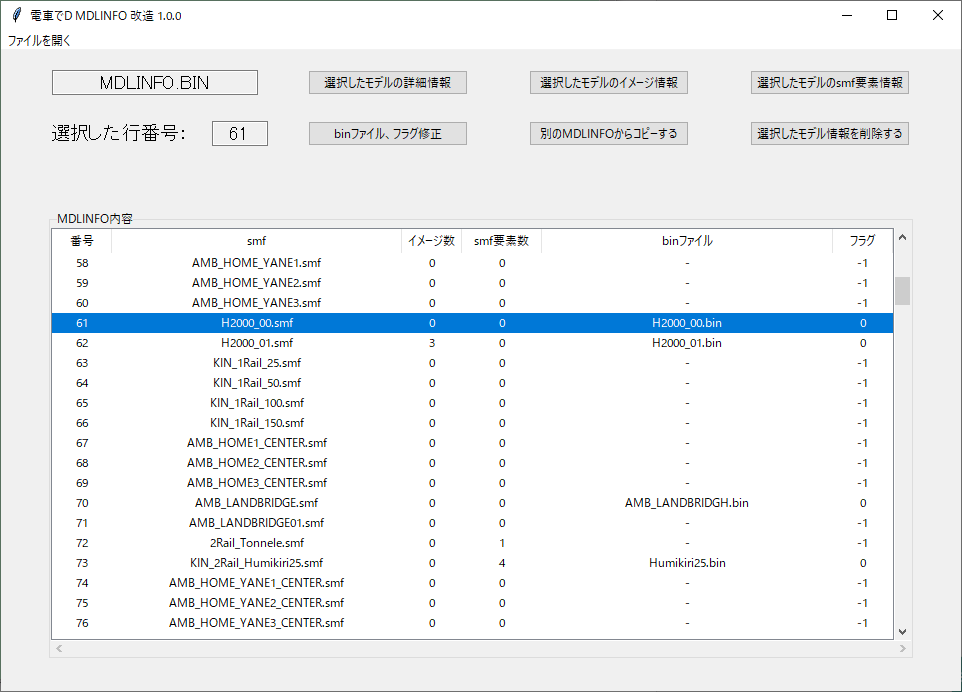
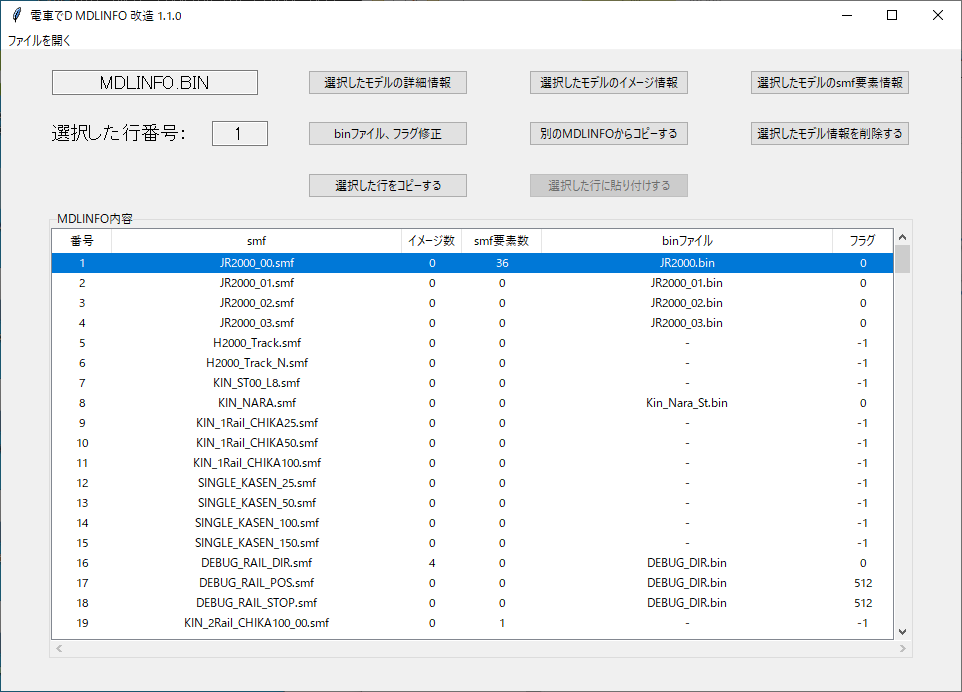
コピー機能追加、削除の不具合修正

diff --git a/importPy/tkinterClass.py b/importPy/tkinterClass.py
@@ -633,6 +633,7 @@ class BinFileOrFlagEditDialog(sd.Dialog):
     def __init__(self, master, title, num, decryptFile):
         self.smfNum = num
         self.decryptFile = decryptFile
+        self.smfName = decryptFile.allInfoList[self.smfNum]["smfName"]
         self.binFile = decryptFile.allInfoList[self.smfNum]["binInfo"][0]
         self.flag = decryptFile.allInfoList[self.smfNum]["binInfo"][1]
         self.dirtyFlag = False
@@ -640,19 +641,26 @@ class BinFileOrFlagEditDialog(sd.Dialog):
     def body(self, master):
         self.fontSize = 12
         self.entryWidth = 20
+        self.smfNameLb = ttk.Label(master, text="smf名")
+        self.smfNameLb.grid(row=0, column=0, sticky=W+E)
+        self.v_smfName = StringVar()
+        self.v_smfName.set(self.smfName)
+        self.smfNameEt = ttk.Entry(master, font=("", self.fontSize), textvariable=self.v_smfName, width=self.entryWidth)
+        self.smfNameEt.grid(row=0, column=1, sticky=W+E)
+        
         self.binFileLb = ttk.Label(master, text="binファイル")
-        self.binFileLb.grid(row=0, column=0, sticky=W+E)
+        self.binFileLb.grid(row=1, column=0, sticky=W+E)
         self.v_binFile = StringVar()
         self.v_binFile.set(self.binFile)
         self.binFileEt = ttk.Entry(master, font=("", self.fontSize), textvariable=self.v_binFile, width=self.entryWidth)
-        self.binFileEt.grid(row=0, column=1, sticky=W+E)
+        self.binFileEt.grid(row=1, column=1, sticky=W+E)
 
         self.flagLb = ttk.Label(master, text="フラグ")
-        self.flagLb.grid(row=1, column=0, sticky=W+E)
+        self.flagLb.grid(row=2, column=0, sticky=W+E)
         self.v_flag = IntVar()
         self.v_flag.set(self.flag)
         self.flagEt = ttk.Entry(master, font=("", self.fontSize), textvariable=self.v_flag, width=self.entryWidth)
-        self.flagEt.grid(row=1, column=1, sticky=W+E)
+        self.flagEt.grid(row=2, column=1, sticky=W+E)
 
     def validate(self):
         warnMsg = "binファイル、フラグ情報を修正しますか？"
@@ -660,6 +668,10 @@ class BinFileOrFlagEditDialog(sd.Dialog):
 
         if result:
             varList = []
+            if not self.v_smfName.get():
+                mb.showerror(title="エラー", message="smf名が空文字です")
+                return False
+            varList.append(self.v_smfName.get())
             varList.append(self.v_binFile.get())
             varList.append(self.v_flag.get())
 
@@ -716,3 +728,41 @@ class CopyMdlDialog(sd.Dialog):
     def apply(self):
         self.dirtyFlag = True
         
+class PasteDialog(sd.Dialog):
+    def __init__(self, master, title, decryptFile, num, copyInfoByteArr):
+        self.decryptFile = decryptFile
+        self.num = num
+        self.copyInfoByteArr = copyInfoByteArr
+        self.reloadFlag = False
+        super(PasteDialog, self).__init__(parent=master, title=title)
+    def body(self, master):
+        self.resizable(False, False)
+        self.posLb = ttk.Label(master, text="挿入する位置を選んでください", font=("", 14))
+        self.posLb.pack(padx=10, pady=10)
+    def buttonbox(self):
+        box = Frame(self, padx=5, pady=5)
+        self.frontBtn = Button(box, text="前", font=("", 12), width=10, command=self.frontInsert)
+        self.frontBtn.grid(row=0, column=0, padx=5)
+        self.backBtn = Button(box, text="後", font=("", 12), width=10, command=self.backInsert)
+        self.backBtn.grid(row=0, column=1, padx=5)
+        self.cancelBtn = Button(box, text="Cancel", font=("", 12), width=10, command=self.cancel)
+        self.cancelBtn.grid(row=0, column=2, padx=5)
+        box.pack()
+    def frontInsert(self):
+        if not self.decryptFile.copySaveFile(self.num - 1, self.copyInfoByteArr):
+            self.decryptFile.printError()
+            errorMsg = "保存に失敗しました。\nファイルが他のプログラムによって開かれている\nまたは権限問題の可能性があります"
+            mb.showerror(title="保存エラー", message=errorMsg)
+            return
+        self.ok()
+        mb.showinfo(title="成功", message="貼り付けしました")
+        self.reloadFlag = True
+    def backInsert(self):
+        if not self.decryptFile.copySaveFile(self.num, self.copyInfoByteArr):
+            self.decryptFile.printError()
+            errorMsg = "保存に失敗しました。\nファイルが他のプログラムによって開かれている\nまたは権限問題の可能性があります"
+            mb.showerror(title="保存エラー", message=errorMsg)
+            return
+        self.ok()
+        mb.showinfo(title="成功", message="貼り付けしました")
+        self.reloadFlag = True

diff --git a/mdlInfoMain.py b/mdlInfoMain.py
@@ -3,6 +3,7 @@ from importPy.tkinterClass import *
 
 decryptFile = None
 frame = None
+copyInfoByteArr = None
 
 def openFile():
     global decryptFile
@@ -43,7 +44,7 @@ def createWidget():
     global mdlInfoLf
     global frame
 
-    btnList = [getMdlDetailBtn, getMdlImageBtn, getSmfDetailBtn, getBinOrFlagBtn, deleteMdlInfoBtn]
+    btnList = [getMdlDetailBtn, getMdlImageBtn, getSmfDetailBtn, getBinOrFlagBtn, deleteMdlInfoBtn, copyInfoBtn]
 
     frame = Scrollbarframe(mdlInfoLf, v_select, btnList)
 
@@ -187,9 +188,43 @@ def deleteMdlInfo():
         num -= 1
         if num >= 0:
             frame.tree.selection_set(num)
+        else:
+            frame.tree.selection_set(0)
+
+def copyInfo():
+    global frame
+    global decryptFile
+    global copyInfoByteArr
+    selectId = int(frame.tree.selection()[0])
+    selectItem = frame.tree.set(selectId)
+    num = int(selectItem["番号"])-1
+    index = decryptFile.allInfoList[num]["smfIndex"]
+    if num + 1 < len(decryptFile.allInfoList):
+        nextIndex = decryptFile.allInfoList[num + 1]["smfIndex"]
+        copyInfoByteArr = decryptFile.byteArr[index:nextIndex]
+    else:
+        copyInfoByteArr = decryptFile.byteArr[index:]
+
+    mb.showinfo(title="成功", message="コピーしました")
+    pasteInfoBtn["state"] = "normal"
+
+def pasteInfo():
+    global decryptFile
+    global frame
+    global copyInfoByteArr
+    selectId = frame.tree.selection()[0]
+    selectItem = frame.tree.set(selectId)
+    num = int(selectItem["番号"])
+    result = PasteDialog(root, "MDLINFO情報コピー", decryptFile, num, copyInfoByteArr)
+    if result.reloadFlag:
+        decryptFile = decryptFile.reload()
+        for i in frame.tree.get_children():
+            frame.tree.delete(i)
+        viewData(decryptFile.allInfoList)
+        frame.tree.selection_set(num)
 
 root = Tk()
-root.title("電車でD MDLINFO 改造 1.0.0")
+root.title("電車でD MDLINFO 改造 1.1.0")
 root.geometry("960x640")
 
 menubar = Menu(root)
@@ -227,5 +262,11 @@ copyAnotherBtn.place(relx=0.55, rely=0.11)
 
 deleteMdlInfoBtn = ttk.Button(root, text="選択したモデル情報を削除する", width=25, state="disabled", command=deleteMdlInfo)
 deleteMdlInfoBtn.place(relx=0.78, rely=0.11)
+
+copyInfoBtn = ttk.Button(root, text="選択した行をコピーする", width=25, state="disabled", command=copyInfo)
+copyInfoBtn.place(relx=0.32, rely=0.19)
+
+pasteInfoBtn = ttk.Button(root, text="選択した行に貼り付けする", width=25, state="disabled", command=pasteInfo)
+pasteInfoBtn.place(relx=0.55, rely=0.19)
 
 root.mainloop()

diff --git a/importPy/decrypt.py b/importPy/decrypt.py
@@ -290,12 +290,22 @@ class MdlDecrypt:
 
     def updateBinFileOrFlag(self, smfNum, valueList):
         try:
-            index = self.allInfoList[smfNum]["binInfoIndex"]
+            index = self.allInfoList[smfNum]["smfIndex"]
             newByteArr = self.byteArr[0:index]
-
             newByteArr.append(len(valueList[0]))
             newByteArr.extend(valueList[0].encode("shift-jis"))
-            h = struct.pack("<h", valueList[1])
+            
+            oldLen = self.byteArr[index]
+            index += 1
+            index += oldLen
+            startIdx = index
+            
+            index = self.allInfoList[smfNum]["binInfoIndex"]
+            newByteArr.extend(self.byteArr[startIdx:index])
+
+            newByteArr.append(len(valueList[1]))
+            newByteArr.extend(valueList[1].encode("shift-jis"))
+            h = struct.pack("<h", valueList[2])
             newByteArr.extend(h)
 
             binFileLen = self.byteArr[index]
@@ -346,10 +356,36 @@ class MdlDecrypt:
             newByteArr.extend(self.byteArr[index:smfIndex])
 
             num += 1
-            if smfIndex < len(self.allInfoList):
+            if num < len(self.allInfoList):
                 smfNextIndex = self.allInfoList[num]["smfIndex"]
                 newByteArr.extend(self.byteArr[smfNextIndex:])
             
+            self.save(newByteArr)
+            return True
+        except Exception as e:
+            self.error = str(e)
+            return False
+
+    def copySaveFile(self, num, copyByteArr):
+        try:
+            index = 16
+            newByteArr = self.byteArr[0:index]
+            allcnt = struct.unpack("<h", self.byteArr[index:index+2])[0]
+            index += 2
+
+            allcnt += 1
+            h = struct.pack("<h", allcnt)
+            newByteArr.extend(h)
+
+            smfIndex = self.allInfoList[num]["smfIndex"]
+            newByteArr.extend(self.byteArr[index:smfIndex])
+
+            newByteArr.extend(copyByteArr)
+            
+            if num < len(self.allInfoList):
+                smfNextIndex = self.allInfoList[num]["smfIndex"]
+                newByteArr.extend(self.byteArr[smfNextIndex:])
+
             self.save(newByteArr)
             return True
         except Exception as e:

diff --git a/README.md b/README.md
@@ -67,7 +67,7 @@ SMFに定義されている要素を編集できる
 
 ![binInfo](https://github.com/khttemp/dend-mdlinfo-editor/blob/main/image/binInfo.png)
 
-モデルに適用するモデルバイナリファイル、フラグを編集できる
+モデル名、モデルバイナリファイル、フラグを編集できる
 
 ### 別のMDLINFOからモデル情報コピー
 
@@ -82,6 +82,14 @@ SMFに定義されている要素を編集できる
 ### モデル情報を削除
 
 モデル情報を削除する。一度削除すると元に戻らない。
+
+### 選択した行をコピーする
+
+選択した行のモデル情報をコピーする。
+
+### 選択した行に貼り付けする
+
+選択した行にモデル情報を貼り付けする。
 
 ## ソースコード版の実行方法
 
